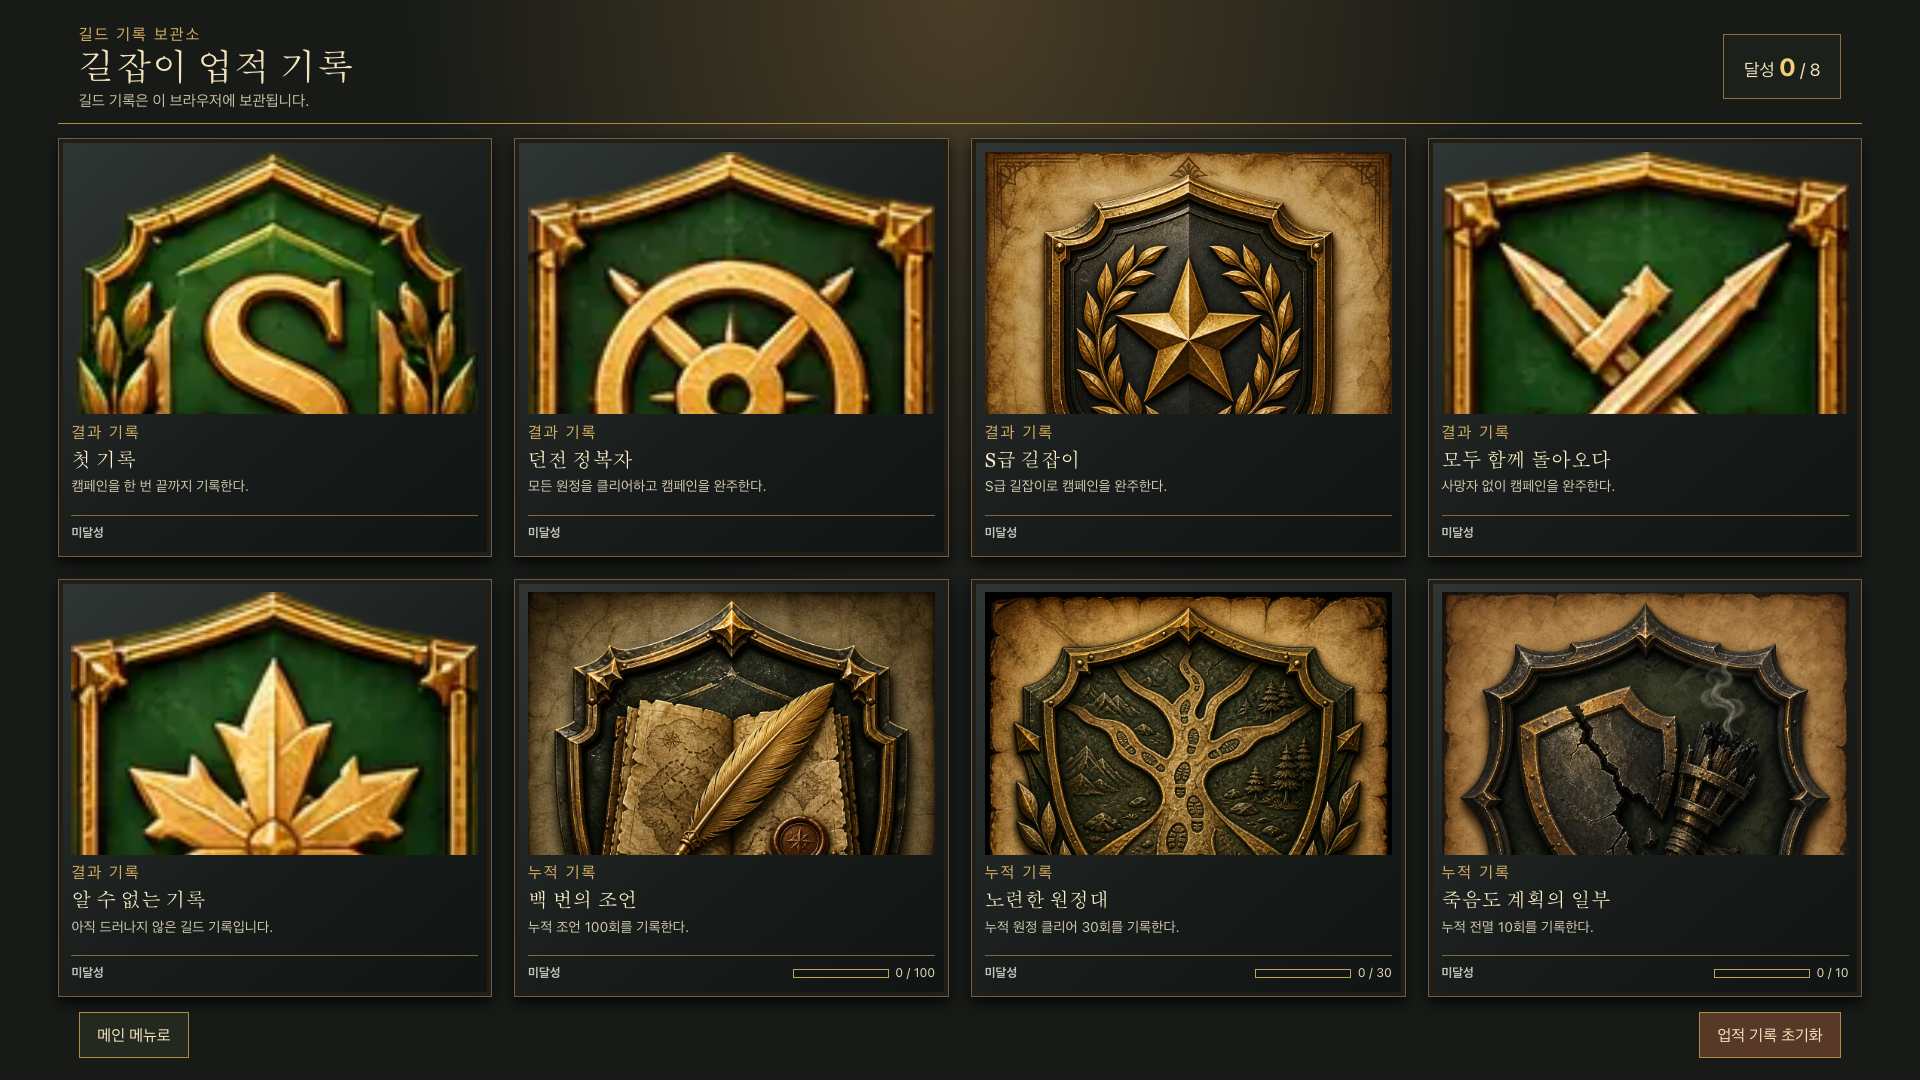
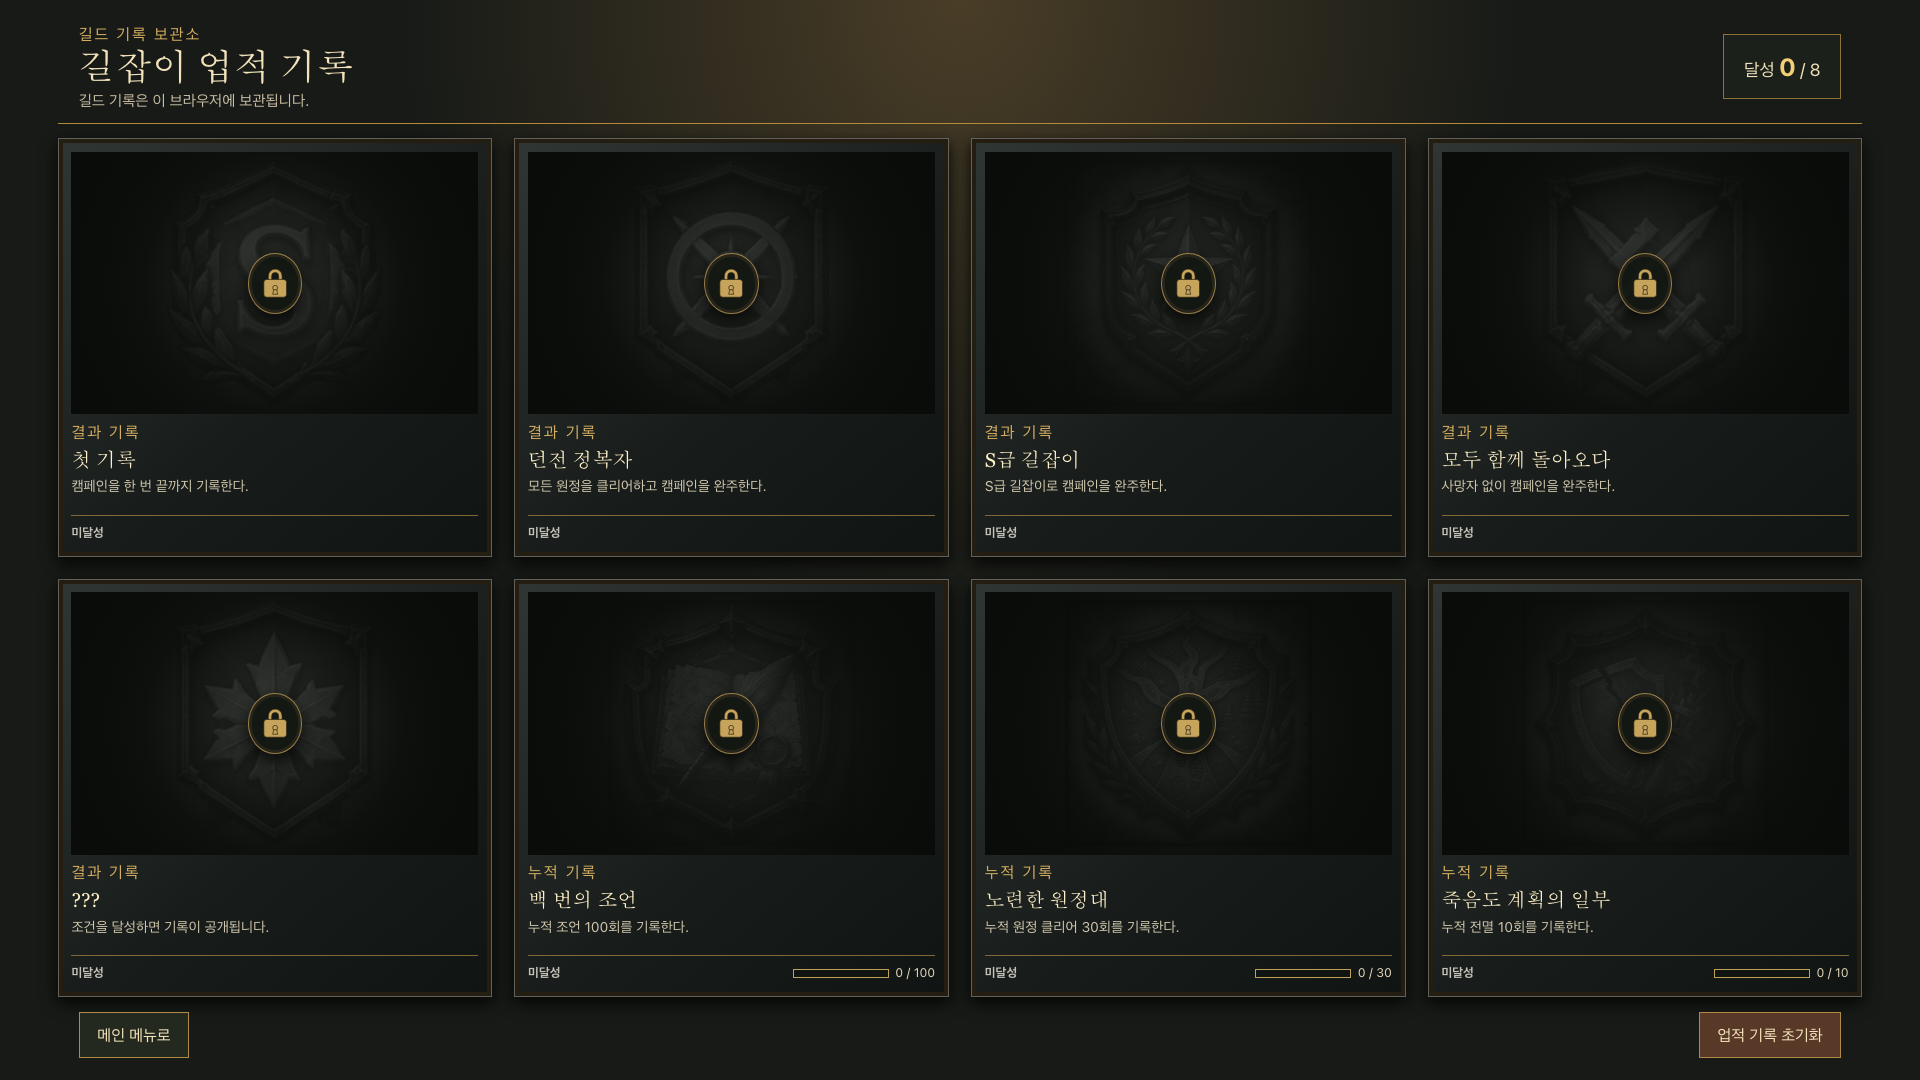
수정: 잠긴 업적 문양을 온전히 가린다
문양 전체를 카드 슬롯 안에 맞추고 미달성 상태에는 흑백 잠금 인장을, 숨은 기록에는 물음표 제목을 적용한다.

diff --git a/components/game/AchievementScreen.tsx b/components/game/AchievementScreen.tsx
@@ -24,8 +24,8 @@ export interface AchievementCardView {
 
 export type AchievementScreenStatus = "loading" | "ready" | "recovered" | "unavailable";
 
-const HIDDEN_TITLE = "알 수 없는 기록";
-const HIDDEN_DESCRIPTION = "아직 드러나지 않은 길드 기록입니다.";
+const HIDDEN_TITLE = "???";
+const HIDDEN_DESCRIPTION = "조건을 달성하면 기록이 공개됩니다.";
 
 export function achievementCardViewsFor(progress: PlayerProgressV1): readonly AchievementCardView[] {
   return ACHIEVEMENT_CATALOG.map((achievement) => {
@@ -101,8 +101,18 @@ function AchievementCard({ card }: { readonly card: AchievementCardView }) {
 
   return (
     <article className={`achievement-card ${card.unlocked ? "is-unlocked" : "is-locked"}`}>
-      <div className="achievement-card__image">
-        <Image src={card.imageSrc} alt={imageAlt} width={1024} height={1024} style={{ objectFit: "contain" }} />
+      <div className={`achievement-card__image${card.unlocked ? "" : " is-obscured"}`}>
+        <Image src={card.imageSrc} alt={imageAlt} fill sizes="25rem" style={{ objectFit: "contain" }} />
+        {!card.unlocked ? (
+          <span className="achievement-card__lock" aria-hidden="true">
+            <svg viewBox="0 0 64 72" focusable="false">
+              <path d="M18 30v-9a14 14 0 0 1 28 0v9h-7v-9a7 7 0 0 0-14 0v9Z" />
+              <rect x="9" y="28" width="46" height="36" rx="6" />
+              <circle cx="32" cy="45" r="5" />
+              <path d="m29 49-2 9h10l-2-9Z" />
+            </svg>
+          </span>
+        ) : null}
       </div>
       <div className="achievement-card__copy">
         <p className="achievement-card__category">{card.categoryLabel}</p>

diff --git a/app/achievements.css b/app/achievements.css
@@ -99,16 +99,46 @@
 }
 
 .achievement-card__image {
+  position: relative;
   display: grid;
   min-height: 0;
   place-items: center;
   overflow: hidden;
+  isolation: isolate;
+  background: radial-gradient(circle, #30352e 0, #151916 72%);
 }
 
 .achievement-card__image img {
-  width: 100%;
-  height: 100%;
   object-fit: contain;
+  transform: scale(0.94);
+  transition: filter 160ms ease, opacity 160ms ease;
+}
+
+.achievement-card__image.is-obscured img {
+  filter: grayscale(1) brightness(0.26) contrast(0.9);
+  opacity: 0.48;
+}
+
+.achievement-card__lock {
+  position: absolute;
+  z-index: 1;
+  inset: 0;
+  display: grid;
+  place-items: center;
+  background: radial-gradient(circle, transparent 0 12%, #080a08b8 54%, #080a08e6 100%);
+}
+
+.achievement-card__lock svg {
+  width: 3.4rem;
+  height: 3.8rem;
+  padding: 0.65rem;
+  border: 0.0625rem solid #9c8148;
+  border-radius: 50%;
+  fill: #c6a45c;
+  stroke: #2a2112;
+  stroke-width: 1.4;
+  background: #121611e8;
+  box-shadow: 0 0.45rem 1.2rem #050605, inset 0 0 0 0.18rem #27251b;
 }
 
 .achievement-card__copy {

diff --git a/components/game/AchievementScreen.test.tsx b/components/game/AchievementScreen.test.tsx
@@ -56,9 +56,19 @@ describe("길잡이 업적 기록 화면", () => {
   it("숨은 업적은 잠긴 동안 이름과 진행도를 감춘다", () => {
     const html = renderEmptyGallery();
 
-    expect(html).toContain("알 수 없는 기록");
+    expect(html).toContain(">???</h2>");
+    expect(html).toContain("조건을 달성하면 기록이 공개됩니다.");
+    expect(html).not.toContain("알 수 없는 기록");
     expect(html).not.toContain("다섯 갈래의 결말");
     expect(html).not.toContain("0 / 5");
+  });
+
+  it("미달성 문양은 잘리지 않는 이미지 슬롯 안에서 잠금 베일로 가린다", () => {
+    const html = renderEmptyGallery();
+
+    expect(html.match(/class="achievement-card__image is-obscured"/g)).toHaveLength(8);
+    expect(html.match(/data-nimg="fill"/g)).toHaveLength(8);
+    expect(html.match(/class="achievement-card__lock" aria-hidden="true"/g)).toHaveLength(8);
   });
 
   it("공개 누적 업적은 접근 가능한 진행도를 제공한다", () => {
